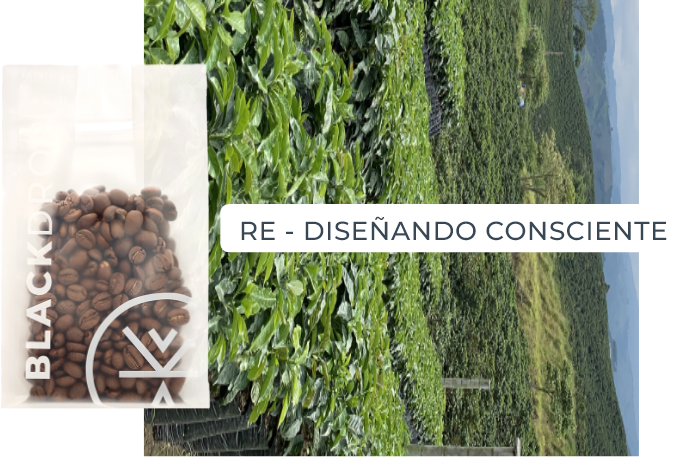
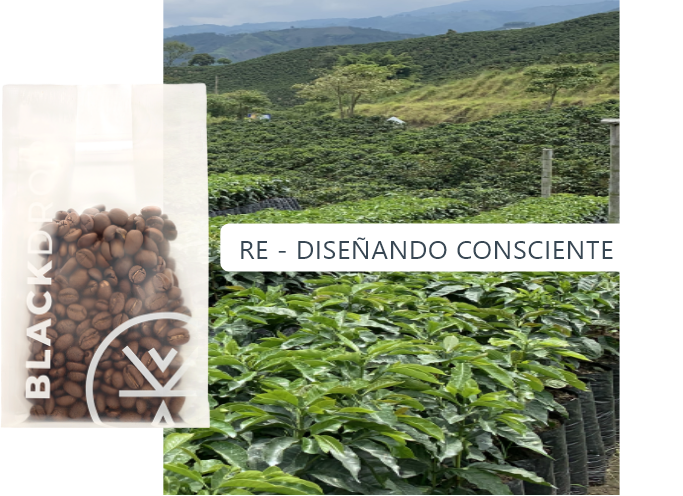
fix

diff --git a/src/assets/app.css b/src/assets/app.css
@@ -167,6 +167,9 @@ blockquote p {
 }
 
 @media screen and (max-width: 768px){
+    .bg-position{
+      background-position: left !important;
+    }
     .different{
       font-size: 30px;
       letter-spacing: 1px;
@@ -196,7 +199,16 @@ blockquote p {
         display: none;
     }
 }
-
+@media screen and (max-width: 490px){
+  .bg-position{
+    background-position: -80px !important;
+  }
+}
+@media screen and (max-width: 377px){
+  .bg-position{
+    background-position: -147px !important;
+  }
+}
 .video-overlay{
     
 }
@@ -257,6 +269,15 @@ blockquote p {
     transition: all 0.2s ease-in-out;
     cursor: pointer;
     opacity: 1;
+  }
+
+  .button-modal {
+    transition: all 0.3s cubic-bezier(0.25, 1, 0.5, 1);
+  }
+
+  .swiper-slide:hover .button-modal{
+    transition: all 0.3s cubic-bezier(0.25, 1, 0.5, 1);
+    bottom: 180px;
   }
 
   .swiper-horizontal>.swiper-pagination-bullets, .swiper-pagination-bullets.swiper-pagination-horizontal, .swiper-pagination-custom, .swiper-pagination-fraction {
